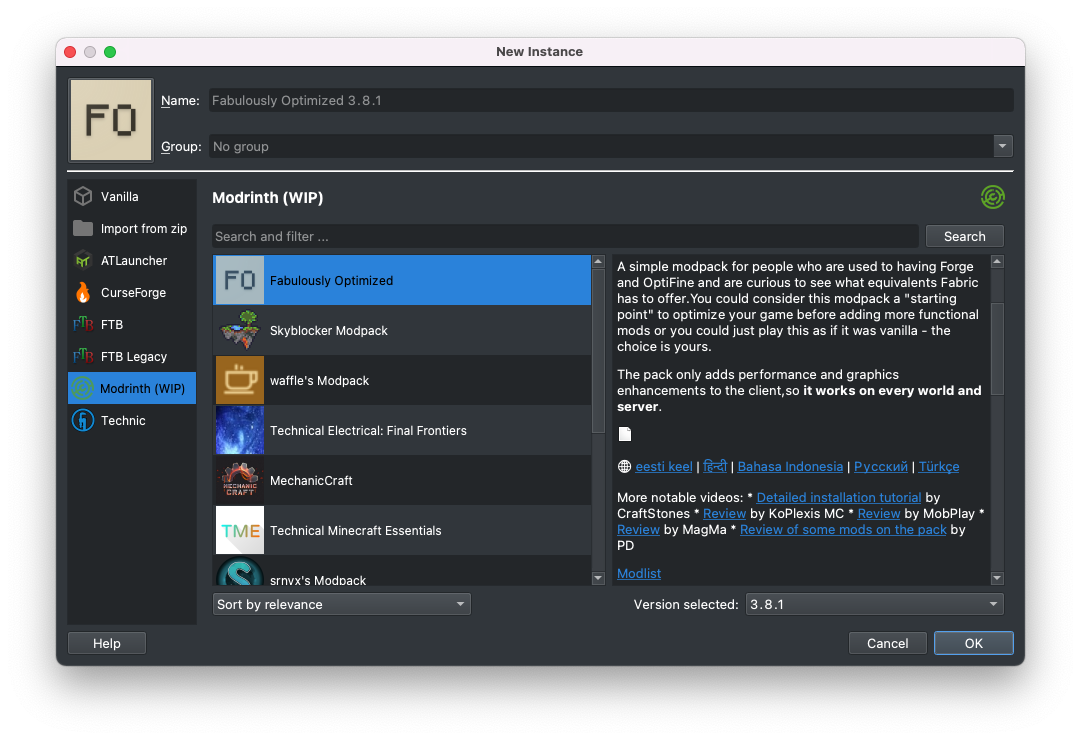
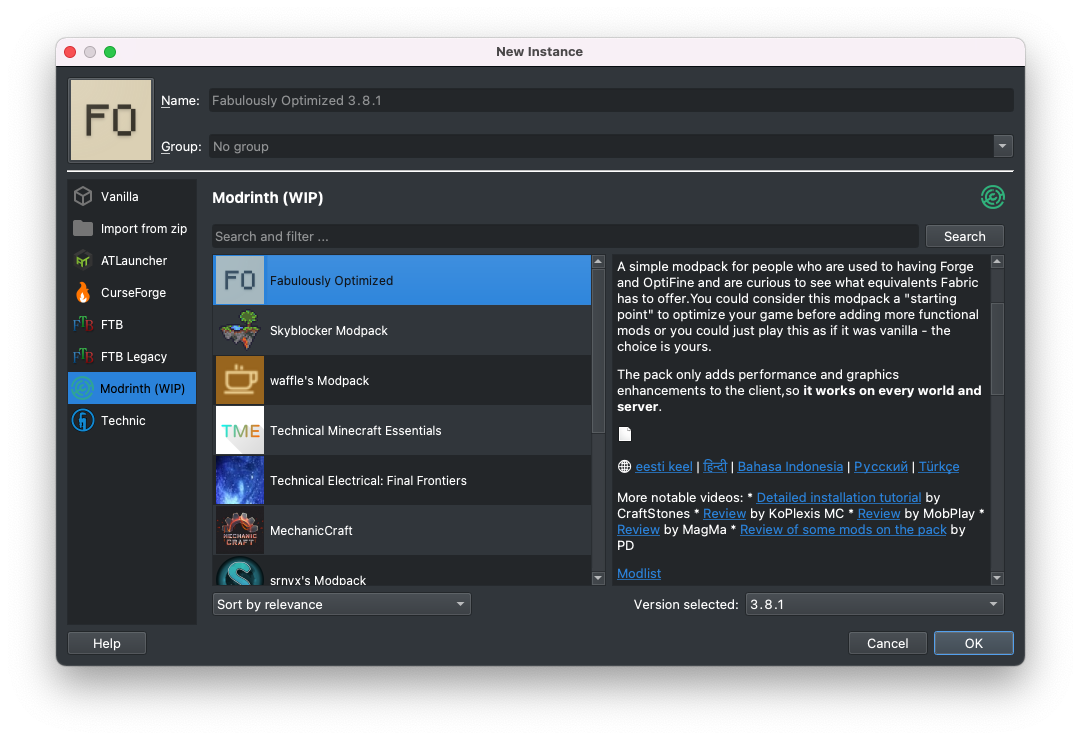
Update mmc picture and import info

diff --git a/docs/modpacks/playing_modpacks.md b/docs/modpacks/playing_modpacks.md
@@ -35,3 +35,5 @@ Modrinth packs are currently only available when using the development branch of
 Modrinth packs can be installed using the "Add instance" button and clicking "Modrinth (WIP)" on the left. It's as easy as selecting the one you want, and pressing "OK".
 
 ![MultiMC](../../static/img/tutorial/multimc.png)
+
+If you want to insert a URL directly, you can do so by selecting "Import from zip" instead of "Modrinth".
